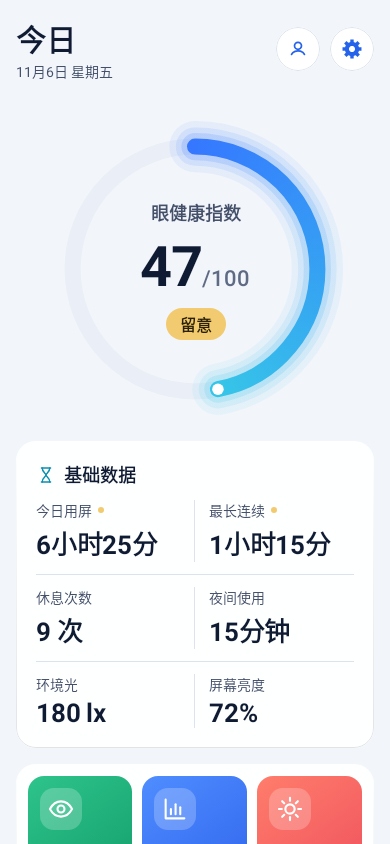
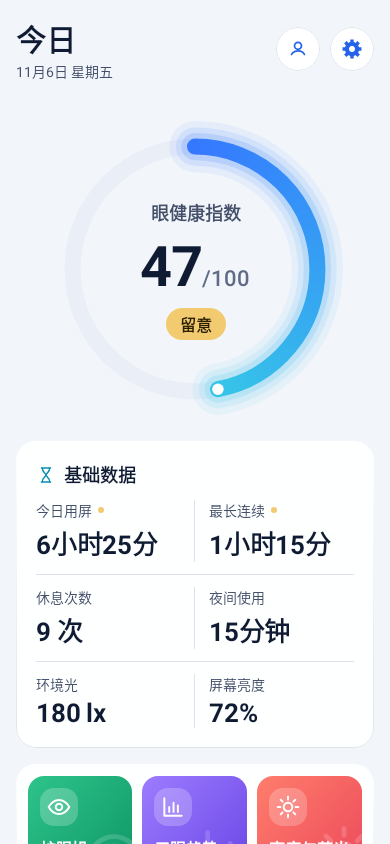
首页功能卡（双端）：三个彩色方块去掉说明小字（约 1 分钟、日均用屏、屏幕亮度等）只留名称，方块变矮（最小高 140 → 96，图标块 42 → 38，装饰图标 76 → 64）；用眼趋势与 AI 主动问诊颜色互换（用眼趋势紫、AI 主动问诊蓝）；文档与安卓回归截图同步

diff --git a/feature/home/src/main/java/com/zkyjss/eyeproject/feature/home/HomeScreen.kt b/feature/home/src/main/java/com/zkyjss/eyeproject/feature/home/HomeScreen.kt
@@ -154,7 +154,7 @@ internal fun HomeContent(
             subtitle = remember { LocalDate.now().format(DateTimeFormatter.ofPattern("M月d日 EEEE", Locale.CHINA)) })
         EyeCareHero(report)
         BasicDataCard(state, actions, Modifier.bringIntoViewRequester(basic))
-        FeatureCard(state, navigation) { exerciseOpen = true }
+        FeatureCard(navigation) { exerciseOpen = true }
         CheckInCard(report, actions.checkIn)
         ReminderCard(state, actions)
         LiveCard(Modifier.bringIntoViewRequester(live)) { liveEye(liveRequests) }
@@ -443,44 +443,40 @@ private fun ReminderCard(state: HomeUiState, actions: HomeActions) {
 }
 
 /**
- * 功能卡：一张卡里上排三个彩色方块（护眼操绿、用眼趋势蓝、亮度与蓝光珊瑚红），下面整行紫色的 AI 主动问诊。
+ * 功能卡：一张卡里上排三个彩色方块（护眼操绿、用眼趋势紫、亮度与蓝光珊瑚红），下面整行蓝色的 AI 主动问诊。
  * 色块上文字与图标一律白色，靠整块颜色做视觉区分。与苹果端 FeatureCard 一致。
  */
 @Composable
-private fun FeatureCard(state: HomeUiState, navigation: HomeNavigation, onOpenExercise: () -> Unit) {
+private fun FeatureCard(navigation: HomeNavigation, onOpenExercise: () -> Unit) {
     val vivid = LocalEyeColors.current.vivid
-    val trend = state.report?.trend?.averageScreenMinutes?.let { "日均用屏 ${EyeCareEngine.duration(it)}" } ?: "近 7 天变化"
-    val brightness = state.screenBrightness?.let { "屏幕亮度 ${(it * 100).toInt()}%" } ?: "夜间模式与护眼"
     EyeCard(contentPadding = 12.dp, verticalArrangement = Arrangement.spacedBy(10.dp)) {
         Row(Modifier.height(IntrinsicSize.Min), horizontalArrangement = Arrangement.spacedBy(10.dp)) {
-            VividTile("护眼操", "约 1 分钟", EyeGlyph.EYE, vivid.green, Modifier.weight(1f).fillMaxHeight(), onOpenExercise)
-            VividTile("用眼趋势", trend, EyeGlyph.CHART, vivid.blue, Modifier.weight(1f).fillMaxHeight(), navigation.onOpenTrend)
-            VividTile("亮度与蓝光", brightness, EyeGlyph.SUN, vivid.red, Modifier.weight(1f).fillMaxHeight(), navigation.onOpenBrightness)
+            VividTile("护眼操", EyeGlyph.EYE, vivid.green, Modifier.weight(1f).fillMaxHeight(), onOpenExercise)
+            VividTile("用眼趋势", EyeGlyph.CHART, vivid.violet, Modifier.weight(1f).fillMaxHeight(), navigation.onOpenTrend)
+            VividTile("亮度与蓝光", EyeGlyph.SUN, vivid.red, Modifier.weight(1f).fillMaxHeight(), navigation.onOpenBrightness)
         }
         ChatEntryCard(navigation.onOpenChat)
     }
 }
 
-/** 功能色块：渐变底 + 左上白色图标块 + 白色标题与一行说明，右下角放大的半透明图标做装饰；按下轻微缩小。 */
+/** 功能色块：渐变底 + 左上白色图标块 + 白色名称（不加说明小字），右下角放大的半透明图标做装饰；按下轻微缩小。 */
 @Composable
-private fun VividTile(title: String, subtitle: String, glyph: EyeGlyph, tone: VividTone, modifier: Modifier, onClick: () -> Unit) {
+private fun VividTile(title: String, glyph: EyeGlyph, tone: VividTone, modifier: Modifier, onClick: () -> Unit) {
     val typography = LocalEyeTypography.current
     val on = LocalEyeColors.current.vivid.onVivid
     val haptics = rememberEyeHaptics()
     val interaction = remember { MutableInteractionSource() }
     val pressed by interaction.collectIsPressedAsState()
     val scale by animateFloatAsState(if (pressed) 0.96f else 1f, EyeMotion.pressSpring(), label = "功能色块按压")
-    Box(modifier.heightIn(min = 140.dp).graphicsLayer { scaleX = scale; scaleY = scale }.clip(EyeShapes.large).background(tone.brush)
+    Box(modifier.heightIn(min = 96.dp).graphicsLayer { scaleX = scale; scaleY = scale }.clip(EyeShapes.large).background(tone.brush)
         .clickable(interactionSource = interaction, indication = null, role = Role.Button) { haptics.tap(); onClick() }) {
-        EyeGlyphIcon(glyph, Modifier.align(Alignment.BottomEnd).offset(x = 16.dp, y = 16.dp).size(76.dp), on.copy(alpha = 0.16f))
+        EyeGlyphIcon(glyph, Modifier.align(Alignment.BottomEnd).offset(x = 14.dp, y = 14.dp).size(64.dp), on.copy(alpha = 0.16f))
         Column(Modifier.padding(12.dp)) {
-            Box(Modifier.size(42.dp).clip(EyeShapes.medium).background(on.copy(alpha = 0.22f)), contentAlignment = Alignment.Center) {
-                EyeGlyphIcon(glyph, Modifier.size(28.dp), on)
+            Box(Modifier.size(38.dp).clip(EyeShapes.medium).background(on.copy(alpha = 0.22f)), contentAlignment = Alignment.Center) {
+                EyeGlyphIcon(glyph, Modifier.size(26.dp), on)
             }
-            Spacer(Modifier.height(14.dp))
+            Spacer(Modifier.height(10.dp))
             EyeText(title, style = typography.body, color = on, fontWeight = FontWeight.Bold)
-            Spacer(Modifier.height(2.dp))
-            EyeText(subtitle, style = typography.chip, color = on.copy(alpha = 0.86f), maxLines = 2)
         }
     }
 }

diff --git a/iosApp/Sources/EyeHome.swift b/iosApp/Sources/EyeHome.swift
@@ -287,7 +287,7 @@ private struct ReminderCard: View {
     }
 }
 
-/// 功能卡：一张卡里上排三个彩色方块（护眼操绿、用眼趋势蓝、亮度与蓝光珊瑚红），下面整行紫色的 AI 主动问诊。
+/// 功能卡：一张卡里上排三个彩色方块（护眼操绿、用眼趋势紫、亮度与蓝光珊瑚红），下面整行蓝色的 AI 主动问诊。
 /// 色块上文字与图标一律白色，靠整块颜色做视觉区分。与安卓 FeatureCard 一致。
 private struct FeatureCard: View {
     let report: CareReport
@@ -296,10 +296,9 @@ private struct FeatureCard: View {
     var body: some View {
         VStack(spacing: 10) {
             HStack(spacing: 10) {
-                VividTile(title: "护眼操", subtitle: "约 1 分钟", glyph: .eye, fill: EyeStyle.Vivid.green, action: openExercise)
-                VividTile(title: "用眼趋势", subtitle: "近 7 天变化", glyph: .chart, fill: EyeStyle.Vivid.blue) { navigate(.trend) }
-                VividTile(title: "亮度与蓝光", subtitle: report.signal("brightness").map { "屏幕亮度 \($0.value)" } ?? "夜间模式与护眼",
-                          glyph: .sun, fill: EyeStyle.Vivid.red) { navigate(.brightness) }
+                VividTile(title: "护眼操", glyph: .eye, fill: EyeStyle.Vivid.green, action: openExercise)
+                VividTile(title: "用眼趋势", glyph: .chart, fill: EyeStyle.Vivid.violet) { navigate(.trend) }
+                VividTile(title: "亮度与蓝光", glyph: .sun, fill: EyeStyle.Vivid.red) { navigate(.brightness) }
             }.fixedSize(horizontal: false, vertical: true)
             ChatEntryCard { navigate(.chat) }
         }
@@ -308,28 +307,25 @@ private struct FeatureCard: View {
     }
 }
 
-/// 功能色块：渐变底 + 左上白色图标块 + 白色标题与一行说明，右下角放大的半透明图标做装饰；按下轻微缩小。与安卓 VividTile 一致。
+/// 功能色块：渐变底 + 左上白色图标块 + 白色名称（不加说明小字），右下角放大的半透明图标做装饰；按下轻微缩小。与安卓 VividTile 一致。
 private struct VividTile: View {
     let title: String
-    let subtitle: String
     let glyph: EyeGlyph
     let fill: LinearGradient
     let action: () -> Void
     var body: some View {
         Button { EyeHaptics.tap(); action() } label: {
             VStack(alignment: .leading, spacing: 0) {
-                EyeGlyphView(glyph: glyph, color: EyeStyle.Vivid.on).frame(width: 28, height: 28)
-                    .frame(width: 42, height: 42)
+                EyeGlyphView(glyph: glyph, color: EyeStyle.Vivid.on).frame(width: 26, height: 26)
+                    .frame(width: 38, height: 38)
                     .background(EyeStyle.Vivid.on.opacity(0.22), in: RoundedRectangle(cornerRadius: EyeStyle.radiusMedium, style: .continuous))
-                Spacer(minLength: 14)
+                Spacer(minLength: 10)
                 Text(title).font(EyeStyle.button).foregroundStyle(EyeStyle.Vivid.on)
-                Text(subtitle).font(EyeStyle.chip).foregroundStyle(EyeStyle.Vivid.on.opacity(0.86))
-                    .lineLimit(2).multilineTextAlignment(.leading).padding(.top, 2)
             }
             .padding(12).frame(maxWidth: .infinity, maxHeight: .infinity, alignment: .topLeading)
-            .frame(minHeight: 140)
+            .frame(minHeight: 96)
             .background(alignment: .bottomTrailing) {
-                EyeGlyphView(glyph: glyph, color: EyeStyle.Vivid.on.opacity(0.16)).frame(width: 76, height: 76).offset(x: 16, y: 16)
+                EyeGlyphView(glyph: glyph, color: EyeStyle.Vivid.on.opacity(0.16)).frame(width: 64, height: 64).offset(x: 14, y: 14)
             }
             .background(fill)
             .clipShape(RoundedRectangle(cornerRadius: EyeStyle.radiusLarge, style: .continuous))

diff --git a/feature/home/src/main/java/com/zkyjss/eyeproject/feature/home/EyeChatPage.kt b/feature/home/src/main/java/com/zkyjss/eyeproject/feature/home/EyeChatPage.kt
@@ -87,7 +87,7 @@ class ChatViewModel @Inject constructor(private val chat: ChatRepository) : View
     fun clear() { viewModelScope.launch { chat.clear() } }
 }
 
-/** 首页「AI 主动问诊」入口（功能卡下排整行）：紫色渐变色块上爱科头像 + 白色标题，点了进入对话页。与苹果端 ChatEntryCard 一致。 */
+/** 首页「AI 主动问诊」入口（功能卡下排整行）：蓝色渐变色块上爱科头像 + 白色标题，点了进入对话页。与苹果端 ChatEntryCard 一致。 */
 @Composable
 internal fun ChatEntryCard(onOpen: () -> Unit) {
     val colors = LocalEyeColors.current
@@ -97,7 +97,7 @@ internal fun ChatEntryCard(onOpen: () -> Unit) {
     val interaction = remember { MutableInteractionSource() }
     val pressed by interaction.collectIsPressedAsState()
     val scale by animateFloatAsState(if (pressed) 0.97f else 1f, EyeMotion.pressSpring(), label = "问诊入口按压")
-    Box(Modifier.fillMaxWidth().graphicsLayer { scaleX = scale; scaleY = scale }.clip(EyeShapes.large).background(colors.vivid.violet.brush)
+    Box(Modifier.fillMaxWidth().graphicsLayer { scaleX = scale; scaleY = scale }.clip(EyeShapes.large).background(colors.vivid.blue.brush)
         .clickable(interactionSource = interaction, indication = null, role = Role.Button) { haptics.tap(); onOpen() }) {
         EyeGlyphIcon(EyeGlyph.CHAT, Modifier.align(Alignment.CenterEnd).offset(x = 14.dp).size(88.dp), on.copy(alpha = 0.14f))
         Row(Modifier.fillMaxWidth().padding(horizontal = 14.dp, vertical = 14.dp), verticalAlignment = Alignment.CenterVertically) {

diff --git a/iosApp/Sources/AiChatView.swift b/iosApp/Sources/AiChatView.swift
@@ -3,7 +3,7 @@ import SwiftUI
 /// 入口与对话页标题（与安卓 CHAT_TITLE 一致）。
 let chatTitle = "AI 主动问诊"
 
-/// 首页「AI 主动问诊」入口（功能卡下排整行）：紫色渐变色块上爱科头像 + 白色标题，点了进入对话页。与安卓 ChatEntryCard 一致。
+/// 首页「AI 主动问诊」入口（功能卡下排整行）：蓝色渐变色块上爱科头像 + 白色标题，点了进入对话页。与安卓 ChatEntryCard 一致。
 struct ChatEntryCard: View {
     let open: () -> Void
     var body: some View {
@@ -17,7 +17,7 @@ struct ChatEntryCard: View {
             .background(alignment: .trailing) {
                 EyeGlyphView(glyph: .chat, color: EyeStyle.Vivid.on.opacity(0.14)).frame(width: 88, height: 88).offset(x: 14)
             }
-            .background(EyeStyle.Vivid.violet)
+            .background(EyeStyle.Vivid.blue)
             .clipShape(RoundedRectangle(cornerRadius: EyeStyle.radiusLarge, style: .continuous))
             .contentShape(RoundedRectangle(cornerRadius: EyeStyle.radiusLarge))
         }.buttonStyle(PressScale(scale: 0.97))

diff --git a/feature/home/src/test/java/com/zkyjss/eyeproject/feature/home/HomeVisualTest.kt b/feature/home/src/test/java/com/zkyjss/eyeproject/feature/home/HomeVisualTest.kt
@@ -101,10 +101,11 @@ class HomeVisualTest {
         compose.mainClock.autoAdvance = true
         compose.onNodeWithText("休息提醒").performScrollTo().performClick()
         assertTrue(reminder)
-        // 护眼操与用眼趋势、亮度与蓝光并排成彩色方块，护眼操不再有「开始」按钮
+        // 护眼操与用眼趋势、亮度与蓝光并排成彩色方块，三个方块只有名称，护眼操没有「开始」按钮
         compose.onNodeWithText("用眼趋势报告").assertDoesNotExist()
         compose.onNodeWithText("开始").assertDoesNotExist()
-        compose.onNodeWithText("约 1 分钟").assertExists()
+        listOf("约 1 分钟", "近 7 天变化", "夜间模式与护眼").forEach { compose.onNodeWithText(it, substring = true).assertDoesNotExist() }
+        compose.onNodeWithText("日均用屏", substring = true).assertDoesNotExist()
         compose.onNodeWithText("用眼趋势").performScrollTo().performClick()
         assertTrue(trend)
         compose.onNodeWithText("开发者工具").performScrollTo().performClick()

diff --git a/iosApp/Sources/EyeStyle.swift b/iosApp/Sources/EyeStyle.swift
@@ -38,7 +38,7 @@ enum EyeStyle {
     static let testReady = dyn(0x137538, 0x91C8D3)
     static let testTooClose = dyn(0xB42332, 0xFF7A86)
     static let testReadySoft = dyn(0xE3F5EA, 0x1A3547)
-    /// 首页功能色块（护眼操绿、用眼趋势蓝、亮度与蓝光珊瑚红、AI 主动问诊紫）：左上到右下渐变，上面文字与图标一律白色。
+    /// 首页功能色块（护眼操绿、用眼趋势紫、亮度与蓝光珊瑚红、AI 主动问诊蓝）：左上到右下渐变，上面文字与图标一律白色。
     /// 深色主题压暗一档；与安卓 Vivid.kt 同值。
     enum Vivid {
         static let blue = gradient(dyn(0x4F8DFF, 0x3F7DF5), dyn(0x2B5FEA, 0x2550D2))

diff --git a/core/designsystem/src/main/java/com/zkyjss/eyeproject/core/designsystem/theme/Vivid.kt b/core/designsystem/src/main/java/com/zkyjss/eyeproject/core/designsystem/theme/Vivid.kt
@@ -11,7 +11,7 @@ data class VividTone(val top: Color, val bottom: Color) {
 }
 
 /**
- * 首页功能色块（护眼操绿、用眼趋势蓝、亮度与蓝光珊瑚红、AI 主动问诊紫）：用整块颜色做视觉刺激，文字保持白色。
+ * 首页功能色块（护眼操绿、用眼趋势紫、亮度与蓝光珊瑚红、AI 主动问诊蓝）：用整块颜色做视觉刺激，文字保持白色。
  * 深色主题整体压暗一档，避免在深海蓝底上发荧光。苹果端 EyeStyle.Vivid 同值。
  */
 @Immutable

diff --git a/feature/home/HOME.md b/feature/home/HOME.md
@@ -2,8 +2,8 @@
 
 首页 = 主动眼健康助手：标题「今日」与日期（右上角账户头像 + 白天 / 夜晚切换 + 系统设置齿轮）→ 大号光流仪表圈包住眼健康指数（不加卡片框）→ 基础数据 →
 功能卡 → 今日感受 → 休息提醒 → 实时检测 → 开发者工具（模型测试）。
-- 功能卡（`FeatureCard`，2026-11-06）：一张玻璃卡里上排三个等高彩色方块 `VividTile`——护眼操（绿，只写「约 1 分钟」，点了直接进护眼操，没有「开始」按钮）、
-  用眼趋势（蓝）、亮度与蓝光（珊瑚红），下排整行紫色的 AI 主动问诊（`ChatEntryCard`）。色块取 `core:designsystem` 的 `vivid` 渐变令牌，文字与图标一律白色，
+- 功能卡（`FeatureCard`，2026-11-06）：一张玻璃卡里上排三个等高彩色方块 `VividTile`——护眼操（绿，点了直接进护眼操，没有「开始」按钮）、
+  用眼趋势（紫）、亮度与蓝光（珊瑚红），下排整行蓝色的 AI 主动问诊（`ChatEntryCard`）。三个方块只写名称，不加说明小字。色块取 `core:designsystem` 的 `vivid` 渐变令牌，文字与图标一律白色，
   左上白色半透明底图标块、右下角放大的半透明图标做装饰。首页不再用彩色文字做强调，颜色靠色块。
 不分小节标题；首页不放眨眼频率、观看距离等读数（看实时检测即可），也不放专业咨询建议入口（`AdvicePage` 仍在，从其他入口进入）。
 本人档案不在首页单独成卡（仍参与评估，在「我的 → 家庭成员」维护）；报告里的建议（`tips`）目前不在首页展示；「休息 20 秒」页（`RestBreakPage`）暂无入口，保留待用。
@@ -46,7 +46,7 @@
 - AI 综合建议对话（`EyeChatPage.kt`）：由爱尔眼科数字人「爱科 Eyecho」主持（真人形象，入口为玻璃卡 + 头像 + 「聊聊今天的用眼感受」）。
   图片在 `core:designsystem` 的 `drawable-nodpi/eyecho_avatar.png`（256 圆形头像）与 `eyecho_half.png`（半身、底边平切），
   苹果端同名素材 `EyechoAvatar` / `EyechoHalf`；`EyechoAvatar(size)` 用在入口、对话气泡、「正在想」与同意弹窗。
-  首页功能卡下排的 `ChatEntryCard`（紫色渐变色块 + 爱科头像 + 白色标题）→ `EyeChatScreen`（`EyeChatRoute`）：顶部 `EyechoIntro`（半身像站在卡片底边 + 自我介绍），
+  首页功能卡下排的 `ChatEntryCard`（蓝色渐变色块 + 爱科头像 + 白色标题）→ `EyeChatScreen`（`EyeChatRoute`）：顶部 `EyechoIntro`（半身像站在卡片底边 + 自我介绍），
   接着是综合建议卡（`AiExplanationCard(text = AiCardText.ADVICE)`，取自 `HomeViewModel.aiAdvice`），下面是与爱科的对话（`ChatViewModel` → `core:data` `ChatRepository`），
   未登录提示去登录；按钮一律「发送」，同意说明不在页面上，点发送时按需弹 `ChatConsentDialog`（还没同意时每次都弹；已同意但没勾「以后不再提示」时每次进页面首次发送弹一次；
   「不同意」只关闭、保留输入）；提到危险信号时在提问下方醒目提示尽快就医；记录只存本机，可清空。与苹果端 `AiChatView.swift` 一致。
